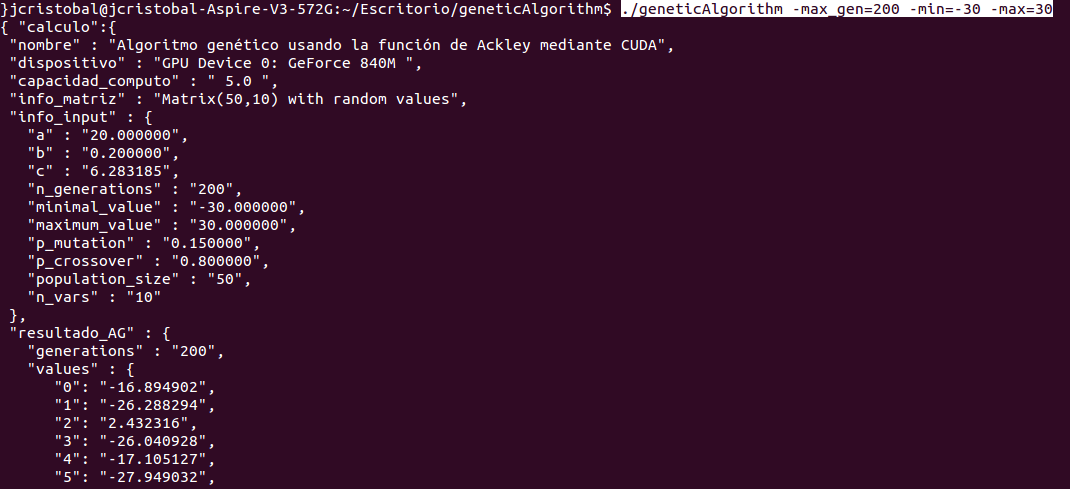
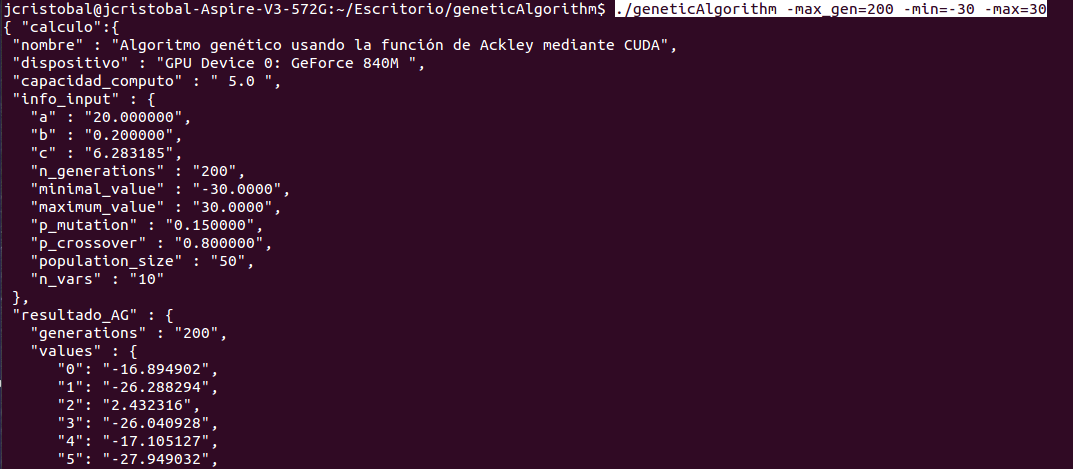
Ajustes finales en la redacción. Se añaden los enlaces a los repositorios del sistema en #6.

Changed region(s): [[0.0, 0.0, 0.9869, 1.0]]

diff --git a/text/chapters/06_Desarrollo_del_sistema.tex b/text/chapters/06_Desarrollo_del_sistema.tex
@@ -3,6 +3,9 @@
 \bigskip
 En este capítulo veremos la arquitectura del sistema, la \textit{filosofía} o principios seguidos y algunas partes del sistema.
 
+\bigskip
+El código del sistema se encuentra en GitHub. Para el sistema completo, que recoge el servicio web y la gestión de la ejecución del algoritmo genético: \textcolor{blue}{\underline{\href{https://github.com/JCristobal/SWGPU}{SWGPU}}}. Y para el módulo que gestiona el algoritmo genético: \textcolor{blue}{\underline{\href{https://github.com/JCristobal/geneticAlgorithm}{geneticAlgorithm}}}.
+
 
 \bigskip
 \section{Arquitectura del sistema}
@@ -173,6 +176,7 @@ Se hará uso de Django para crearlo y gestionarlo. A continuación se citan sus 
 
 El sistema hará uso de la GPU del servidor (BackEnd) mediante el ejecutable \textit{geneticAlgorithm} (ubicado en el directorio \textit{bin}), escrito en C++ y CUDA. De esta manera se facilitará el servicio, ya que al tratarse de un ejecutable al que sólo hay que realizar una petición con los parámetros deseados se cubren los posibles fallos y la salida que dará. 
 
+\bigskip
 En las siguiente imagen se ve una captura de petición de ayuda sobre las variables a introducir mediante el ejecutable:
 
 \bigskip
@@ -203,7 +207,6 @@ y a continuación se ve la salida completa en formato JSON:
 		"nombre": "Algoritmo genético usando la función de Ackley mediante CUDA",
 		"dispositivo": "GPU Device 0: GeForce 840M ",
 		"capacidad_computo": " 5.0 ",
-		"info_matriz": "Matrix(50,10) with random values",
 		"info_input": {
 			"a": "20.000000",
 			"b": "0.200000",
@@ -244,10 +247,10 @@ y a continuación se ve la salida completa en formato JSON:
 
 
 \bigskip
-Si cada vez que se hiciera una petición, se pudiese cambiar el código fuente, o añadir funcionalidades, habría que compilar el programa, comprobar que no hubiese fallos ni generase errores, y no se garantizaría una salida formateada correctamente, además de generar una petición que consume más recursos y tiempo.
+Se optó por un ejecutable porque si cada vez que se realizara una petición hubiese que compilar el programa con el algoritmo genético, comprobar que no hubiese fallos ni generase errores, y no se garantizaría una salida formateada correctamente, además de generar una petición que consume más recursos y tiempo.
 
 \bigskip
-Pese a todas esas desventajas, con un buen uso del cliente y una correcta prevención de fallos se conseguiría una funcionalidad mayor y llena de posibilidades. Pero como esta posibilidad no se ofrece en este trabajo, se hablará en el capítulo 8 sobre ella.
+Pese a todas esas desventajas, se podría permitir al usuario cambiar el código fuente, o añadir funcionalidades y con un buen uso por su parte y una correcta prevención de fallos se conseguiría una funcionalidad mayor y llena de posibilidades. Pero como esta posibilidad no se ofrece en este trabajo, se hablará en el capítulo 8 sobre ella.
 
 
 \newpage
@@ -270,7 +273,7 @@ Se probará para una tarjeta GeForce 840M \cite{geforce840m} y GeForce GXT 660 T
 Como nota hay que destacar el parámetro de \textit{capability} (capacidad), que será el que mayores restricciones o mejoras imponga en sus distintas versiones. Cuanto mayor sea esta, más funcionalidades podrá realizar y soportará más requisitos técnicos.
 
 \bigskip
-En la siguiente gráfica (Figura \ref{fig:grafico_benchmarks}) se verá la diferencia de ambas en benchmarks para medir procesamiento de gráficos (Parallax, MRender, Gravity y Splatting):
+En la siguiente gráfica (Figura \ref{fig:grafico_benchmarks}) se verá la diferencia de ambas en benchmarks para medir \underline{procesamiento de gráficos} (Parallax, MRender, Gravity y Splatting):
 
 \begin{figure}[h]
 	\centering
@@ -300,5 +303,5 @@ Y se ve que la tarjeta con mejores prestaciones pero peor capacidad (GeForce GTX
 \bigskip
 Como conclusión se llega a que a la hora de escoger el dispositivo a usar por el sistema para realizar los cómputos no sólo habrá que tener en cuenta los requisitos, si no que el factor de capacidad será decisivo para el rendimiento del cómputo y con ello del sistema.
 
-También que ambas producen buenos resultados en el sistema, por lo que, por ejemplo se podría usar cualquiera de las 2 en el sistema.
+También que ambas producen buenos resultados en el sistema, por lo que, se podría usar cualquiera en el sistema.
 

diff --git a/text/chapters/07_Manuales.tex b/text/chapters/07_Manuales.tex
@@ -15,7 +15,7 @@ El cliente o usuario tendrá una primera impresión de la \textit{portada} del s
 \end{figure}
 
 
-Una vez avance podrá ver los servicios disponibles: ejecutar un algoritmo genético y que se optimizado mediante la función de Ackley o de Rastrigin. Para acceder a dichos servicios sólo tendrá que \textit{clickar} sobre el servicio que quiera y se desplegará.
+Una vez avance podrá ver los servicios disponibles: ejecutar un algoritmo genético y que use la funcion de evaluacion de Ackley o de Rastrigin. Para acceder a dichos servicios sólo tendrá que \textit{clickar} sobre el servicio que quiera y se desplegará.
 
 \bigskip
 \begin{figure}[h]
@@ -63,7 +63,7 @@ Y una vez realizado el algoritmo genético, ya se podrá acceder a los resultado
 
 \newpage
 \bigskip
-Por último, se muestra al final, aunque se puede acceder siempre a él, una sección de contacto. Se podrá poner en contacto con el administrador del sistema.
+Por último se muestra al final (aunque se puede acceder siempre a él) una sección de contacto. Se podrá poner en contacto con el administrador del sistema.
 
 \bigskip
 \begin{figure}[h]
@@ -110,7 +110,7 @@ Y para el procesamiento mediante CUDA:
 \bigskip
 
 
-Una vez que se cumplen los requisitos, sólo habrá que lanzar el servicio web, ya que el procesamiento usando la GPU se gestiona sólo mediante el ejecutable \textit{geneticAlgorithm}.
+Una vez que se cumplen los requisitos, sólo habrá que lanzar el servicio web, ya que el procesamiento usando la GPU se gestiona mediante el ejecutable \textit{geneticAlgorithm} dirigido por el servicio web.
 
 Para ello el servidor Apache tendrá que estar activo (se puede activar ejecutando \textit{service apache2 restart}) y lanzar el proyecto Django con el proyecto: dentro del directorio SWGPU ejecutar, junto con la URL donde lanzar el sistema \textit{python manage.py runserver [URL]}
 

diff --git a/text/chapters/03_Estado_del_arte.tex b/text/chapters/03_Estado_del_arte.tex
@@ -104,7 +104,7 @@ Con esto se puede ver que podemos encontrar servicios que realicen algoritmos ge
 \bigskip
 
 ¿Que usuarios necesitan computar algoritmos genéticos?
-Por ejemplo, cualquier estudiante que quiera comprobar los cambios en los distintos parámetros del algoritmo genético.
+Por ejemplo, cualquier estudiante que quiera comprobar los cambios en los resultados del algoritmo genético con distintos parámetros .
 
 ¿Y además algoritmos que requieran mucha capacidad de cómputo? En principio el personal de investigación cumple con estas características. Junto con la potencia de cómputo y la accesibilidad que proporcionaremos simplificaríamos el trabajo de dicho personal. 
 
@@ -125,7 +125,7 @@ Para evitar dichas limitaciones, podemos usar la paralelización de los algoritm
 
 Si se busca un servicio de computación externo (que ofrezca una mayor potencia de computación usando GPUs) de algoritmos genéticos no llegamos a encontrar nada que cumpla con nuestro requisitos: o son servicios en local para lanzar algoritmos genéticos o son servicios externos que nos ofrecen computación aprovechando la paralelización de CUDA, pero sin llegar a ofrecer ninguna aproximación de un algoritmo genético.
 
-Viendo esto se encuentra una demanda que podemos cubrir con nuestro servicio, motivando a su desarrollo, implementación y creación.
+Viendo esto se encuentra una demanda que podemos cubrir con nuestro servicio, motivando a su análisis y desarrollo.
 
 
 

diff --git a/text/chapters/05_Descripcion_sistema.tex b/text/chapters/05_Descripcion_sistema.tex
@@ -10,6 +10,8 @@ Este proyecto fue propuesto desde un principio por {\tutor}, ya que en su ámbit
 
 Después de la propuesta del trabajo, y antes del desarrollo del mismo se hicieron diversas reuniones para establecer sus bases y alcance. 
 
+Para desarrollarlo se separó el trabajo en un \textit{módulo} con las funcionalidades del algoritmo genético, y otro con el servicio web que pudiese aprovechar dichas funcionalidades.
+
 En la selección de tecnologías a usar se optó por la arquitectura de cómputo CUDA, ya que es actualmente la más potente, como se ve en el capítulo anterior, y se dispone de una tarjeta gráfica NVIDIA de gran potencia.
 
 En la parte del servicio web se optó por el framework python Django, ya que se estudió con profundidad a lo largo del curso y es en la actualidad es la mejor opción para realizar un servicio web.
@@ -551,7 +553,7 @@ A continuación se muestra la comunicación entre las distintas partes simulando
 \begin{figure}[h]
 	\centering
 	\includegraphics[width=1\linewidth]{../images/d_comunicacion}
-	\caption[Diagrama de secuencia de petición de un servicio]{Diagrama de secuencia de petición de un servicio}
+	\caption[Diagrama con la comunicación entre las distintas partes]{Diagrama con la comunicación entre las distintas partes}
 	\label{fig:d_comunicacion}
 \end{figure}
 

diff --git a/text/chapters/02_Introduccion.tex b/text/chapters/02_Introduccion.tex
@@ -34,7 +34,7 @@ Pueden resolver problemas de alta complejidad, pero esto suele traducirse en ope
 
 \begin{itemize}
 	
-	\item Se desarrollarán varias clases para lanzar algoritmos genéticos que aprovechen el cálculo paralelo de alguna arquitectura de cálculo especializada (más adelante se vera que se opta por CUDA)
+	\item Se desarrollarán varias clases para lanzar algoritmos genéticos que aprovechen el cálculo paralelo de alguna arquitectura de cálculo especializada (más adelante se vera que se opta por CUDA).
 	
 	\item Además se desarrollará un servicio web que interactúe con ellas. Esa infraestructura que da soporte a las llamadas del servicio debe hacer uso de una GPU. Esto hará que dichos algoritmos genéticos sean más accesibles y fáciles de usar, ya que sólo tendrán que introducir los parámetros que se deseen y lanzar el algoritmo de manera intuitiva y sin necesidad de una preparación previa.
 	

diff --git a/text/chapters/04_Resolucion_trabajo.tex b/text/chapters/04_Resolucion_trabajo.tex
@@ -105,7 +105,7 @@ Y en la siguiente figura se ve el desarrollo que se a producido, tras desviacion
 \bigskip
 
 
-En este punto veremos los presupuesto según el conteo de horas para cada una de las 2 estimaciones y los servicios que requiramos (obviando el alquiler y mantenimiento del lugar de trabajo). Suponiendo la media actual de un programador Junior (Abril 2016) \cite{sueldos}: 11,25\officialeuro/hora
+En este punto se verán los presupuesto según el conteo de horas para cada una de las 2 estimaciones y los servicios que se requiren (obviando el alquiler y mantenimiento del lugar de trabajo). Suponiendo la media actual de un programador Junior (Abril 2016) \cite{sueldos}: 11,25\officialeuro/hora.
 
 
 \bigskip

diff --git a/text/chapters/08_Conclusiones_trabajos_futuros.tex b/text/chapters/08_Conclusiones_trabajos_futuros.tex
@@ -15,7 +15,8 @@ También se ha creado la estructura del servicio web, de manera que sea accesibl
 Dicho servicio facilita la petición del algoritmo genético, y se obtendrán los resultados mediante el uso de la GPU del servidor.
 
 \bigskip
-Se a publicado el servicio, en forma de \textit{beta}. Se encuentra accesible en  \href{www.genmagic.ugr.es:8000}{www.genmagic.ugr.es:8000}, accesible dentro de la red de la UGR \cite{vpnugr}.
+Se a publicado el servicio, en forma de \textit{beta}. Se encuentra accesible en
+\textcolor{blue}{\underline{\href{http://genmagic.ugr.es:8000}{www.genmagic.ugr.es:8000}}}, accesible dentro de la red de la UGR \cite{vpnugr}.
 	
 
 \section{Trabajos futuros}
